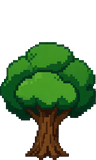
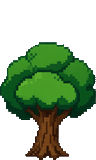
editor v0.5: inspect tool + pan + lamp erase fix + sprite noise cleanup
- 新增 📍 检视工具：单击格子弹出行列气泡，提供「下侧增加行/右侧增加列」按钮（所指格之后插入）；拖动仅平移视角保缩放
- 修复橡皮擦无法清除路灯：新增 removeLampAt，大小路灯均可擦除
- 重新清洗 19 张物件贴图：按外框 alpha 判定背景模式，半透明/不透明灰蒙层用饱和度 flood-fill 抠除并清空透明区 RGB，消除灰白噪点
- 更新 CHANGELOG/README 至 v0.5

diff --git a/static/lixin/play/tile-editor/index.html b/static/lixin/play/tile-editor/index.html
@@ -83,7 +83,7 @@
   <div class="wrap"><canvas id="cv"></canvas></div>
   <div class="side" id="side"></div>
 </div>
-<div class="legend">左键：按当前工具绘制；按住拖拽 = 连续/矩形；建筑放置时会询问名称。草地笔刷可选多种写实草色（春/夏/深林/枯黄/苔地/花甸/浅草），v0.3 新增碎石/岩石/泥土/泥泞/草皮/土路等写实地表贴图与树/石/栅栏/木桶等可放置物件。右侧列表可逐项删除。橡皮擦先擦地形覆盖/物件，再删除所指最上层结构。滚轮缩放，拖动空白处可平移。</div>
+<div class="legend">左键：按当前工具绘制；按住拖拽 = 连续/矩形。📍 检视：单击格子显示其行/列，格子旁可「下侧增加行 / 右侧增加列」，按住拖动则平移地图视角（缩放不变）。草地笔刷可选多种写实草色（春/夏/深林/枯黄/苔地/花甸/浅草），v0.3 新增碎石/岩石/泥土/泥泞/草皮/土路等写实地表贴图与树/石/栅栏/木桶等可放置物件。右侧列表可逐项删除。橡皮擦可直接擦除地形覆盖/物件/路灯（大灯小灯均可），再删所指最上层结构。滚轮缩放。</div>
 
 <script>
 /* ============ 基础常量 ============ */
@@ -246,6 +246,7 @@ const TOOLS=[
   {t:'building',name:'🏢 建筑矩形', sw:'#8a8a92'},
   {t:'lamp',   name:'💡 路灯', sw:'#ffe28a'},
   {t:'object', name:'🌲 物件', sw:'#6ba832'},
+  {t:'pick',   name:'📍 检视', sw:'#7fe0e0'},
   {t:'erase',  name:'🧽 橡皮擦', sw:'#cccccc'}
 ];
 
@@ -265,6 +266,8 @@ const statusEl=document.getElementById('status');
 const toastEl=document.getElementById('toast');
 const zoomLabel=document.getElementById('zoomLabel');
 const dimLabel=document.getElementById('dimLabel');
+const wrap=document.querySelector('.wrap');
+let panning=false, dragging=false, panStart=null, picked=null, cellBubble=null;
 
 /* ---------- 工具条 ---------- */
 TOOLS.forEach(tl=>{
@@ -272,7 +275,7 @@ TOOLS.forEach(tl=>{
   d.className='tool'+(tl.t===tool?' active':'');
   d.dataset.t=tl.t;
   d.innerHTML='<span class="sw" style="background:'+tl.sw+'"></span>'+tl.name;
-  d.onclick=()=>{ tool=tl.t; [...toolsEl.children].forEach(c=>c.classList.toggle('active',c.dataset.t===tool)); renderSubbar(); statusEl.textContent='已选：'+tl.name; };
+  d.onclick=()=>{ tool=tl.t; hideCellBubble(); [...toolsEl.children].forEach(c=>c.classList.toggle('active',c.dataset.t===tool)); renderSubbar(); statusEl.textContent='已选：'+tl.name; };
   toolsEl.appendChild(d);
 });
 
@@ -329,8 +332,11 @@ function renderSubbar(){
     });
     const tip=document.createElement('span'); tip.className='lbl'; tip.textContent='（单击放置，可拖拽连续放置）';
     subbarEl.appendChild(tip);
+  } else if(tool==='pick'){
+    const tip=document.createElement('span'); tip.className='lbl'; tip.textContent='（单击格子显示其行列，格子旁可“下侧增加行 / 右侧增加列”；按住拖动 = 平移地图视角，缩放不变）';
+    subbarEl.appendChild(tip);
   } else if(tool==='erase'){
-    const tip=document.createElement('span'); tip.className='lbl'; tip.textContent='（先擦地形覆盖/物件，再删所指最上层结构）';
+    const tip=document.createElement('span'); tip.className='lbl'; tip.textContent='（可直接擦除地形覆盖/物件/路灯，再删所指最上层结构）';
     subbarEl.appendChild(tip);
   }
 }
@@ -526,6 +532,13 @@ function findTopStructure(x,y){
 let painting=false;
 cv.addEventListener('pointerdown',e=>{
   const c=cellFromEvent(e); if(!c) return;
+  if(tool==='pick'){
+    panning=true; dragging=false;
+    panStart={x:e.clientX,y:e.clientY,sl:wrap.scrollLeft,st:wrap.scrollTop};
+    hideCellBubble();
+    cv.setPointerCapture(e.pointerId);
+    return;
+  }
   if(tool==='brush'||tool==='object'||tool==='erase'){ painting=true; paintCell(c); }
   else if(tool==='lamp'){ placeLamp(c); }
   else { anchor=c; painting=true; }
@@ -533,11 +546,23 @@ cv.addEventListener('pointerdown',e=>{
 });
 cv.addEventListener('pointermove',e=>{
   const c=cellFromEvent(e); hover=c;
+  if(tool==='pick'&&panning){
+    const dx=e.clientX-panStart.x, dy=e.clientY-panStart.y;
+    if(Math.abs(dx)>3||Math.abs(dy)>3) dragging=true;
+    wrap.scrollLeft=panStart.sl-dx; wrap.scrollTop=panStart.st-dy;
+    return;
+  }
   if(painting&&(tool==='brush'||tool==='object'||tool==='erase')) paintCell(c);
   else if(painting&&anchor&&tool!=='lamp') preview=normRect(anchor,c);
   draw();
 });
 cv.addEventListener('pointerup',e=>{
+  if(tool==='pick'&&panning){
+    panning=false;
+    if(!dragging){ const c=cellFromEvent(e); if(c) pickCell(c); }
+    cv.releasePointerCapture(e.pointerId);
+    return;
+  }
   const c=cellFromEvent(e);
   if(painting&&anchor&&tool!=='brush'&&tool!=='object'&&tool!=='erase'&&tool!=='lamp'){
     const r=normRect(anchor,c); if(r.w>0&&r.h>0) commitRect(r);
@@ -553,8 +578,10 @@ function normRect(a,b){
 function paintCell(c){
   const k=c.x+','+c.y;
   if(tool==='erase'){
-    if(state.overrides&&state.overrides[k]){ delete state.overrides[k]; }
-    else{ const hit=findTopStructure(c.x,c.y); if(hit){ if(hit.layer==='overrides') delete state.overrides[hit.idx]; else removeAt(hit.layer,hit.idx); toast('已删除 '+((LAYER_META[hit.layer]&&LAYER_META[hit.layer].name)||'物件')+'：'+hit.label); return; } }
+    if(state.lamps&&removeLampAt(c.x,c.y)) return;
+    if(state.overrides&&state.overrides[k]){ delete state.overrides[k]; draw(); scheduleSave(); renderList(); return; }
+    const hit=findTopStructure(c.x,c.y);
+    if(hit){ if(hit.layer==='overrides') delete state.overrides[hit.idx]; else removeAt(hit.layer,hit.idx); toast('已删除 '+((LAYER_META[hit.layer]&&LAYER_META[hit.layer].name)||'物件')+'：'+hit.label); return; }
     draw(); scheduleSave(); renderList(); return;
   }
   state.overrides=state.overrides||{};
@@ -567,6 +594,41 @@ function paintCell(c){
     state.overrides[k]={t:brushType};
   }
   draw(); scheduleSave(); renderList();
+}
+/* ---------- 路灯删除 + 检视气泡 ---------- */
+function removeLampAt(x,y){
+  if(!state.lamps||!state.lamps.length) return false;
+  const i=state.lamps.findIndex(l=>l.x===x&&l.y===y);
+  if(i<0) return false;
+  state.lamps.splice(i,1); scheduleSave(); draw(); renderList();
+  toast('已删除路灯 ('+x+','+y+')'); return true;
+}
+function hideCellBubble(){ if(cellBubble) cellBubble.style.display='none'; picked=null; }
+function ensureCellBubble(){
+  if(cellBubble) return cellBubble;
+  cellBubble=document.createElement('div');
+  cellBubble.id='cellBubble';
+  cellBubble.style.cssText='position:fixed;z-index:9999;display:none;background:#1f1f24;border:2px solid #f3d27a;border-radius:10px;padding:10px 12px;box-shadow:0 8px 24px rgba(0,0,0,.45);color:#eee;font-size:13px;min-width:160px;';
+  cellBubble.innerHTML='<div id="cbInfo" style="margin-bottom:8px;font-weight:bold;color:#f3d27a;"></div>'
+    +'<div style="display:flex;gap:8px;flex-wrap:wrap;">'
+    +'<button id="cbAddRow" class="btn mini">下侧增加行</button>'
+    +'<button id="cbAddCol" class="btn mini">右侧增加列</button>'
+    +'</div>';
+  document.body.appendChild(cellBubble);
+  cellBubble.querySelector('#cbAddRow').onclick=()=>{ if(picked){ insertRows(1,picked.y); hideCellBubble(); } };
+  cellBubble.querySelector('#cbAddCol').onclick=()=>{ if(picked){ insertCols(1,picked.x); hideCellBubble(); } };
+  return cellBubble;
+}
+function pickCell(c){
+  picked={x:c.x,y:c.y};
+  const b=ensureCellBubble();
+  b.querySelector('#cbInfo').textContent='第 '+(c.y+1)+' 行 / 第 '+(c.x+1)+' 列';
+  const r=cv.getBoundingClientRect();
+  let x=r.left+(c.x+1)*SCALE+6, y=r.top+c.y*SCALE;
+  if(x+190>window.innerWidth) x=r.left+(c.x)*SCALE-196;
+  if(y+96>window.innerHeight) y=window.innerHeight-100;
+  b.style.left=Math.max(4,x)+'px'; b.style.top=Math.max(4,y)+'px';
+  b.style.display='block';
 }
 function placeLamp(c){
   state.lamps=state.lamps||[];

diff --git a/static/lixin/play/assets/obj/clean_obj.py b/static/lixin/play/assets/obj/clean_obj.py
@@ -1,0 +1,74 @@
+import numpy as np
+from PIL import Image
+import glob, os, shutil
+
+HERE=os.path.dirname(os.path.abspath(__file__))
+BAK="/tmp/obj_originals"
+os.makedirs(BAK, exist_ok=True)
+
+def neighbors(y,x,h,w):
+    for dy,dx in ((1,0),(-1,0),(0,1),(0,-1)):
+        ny,nx=y+dy,x+dx
+        if 0<=ny<h and 0<=nx<w: yield ny,nx
+
+def restore(f):
+    src=os.path.join(BAK,f)
+    if os.path.exists(src): shutil.copy(src, f)
+
+for f in sorted(glob.glob("*.png")):
+    restore(f)
+    im=Image.open(f).convert("RGBA")
+    a=np.array(im); h,w,_=a.shape
+    px=a.reshape(h,w,4).copy()
+    alpha=px[:,:,3].astype(int)
+    rgb=px[:,:,:3].astype(float)
+    corners=[px[0,0],px[0,-1],px[-1,0],px[-1,-1]]
+    ccol=np.array([c[:3] for c in corners],float)
+    bg=ccol.mean(0)
+    fr=[px[y,x,3] for y in range(h) for x in range(w) if (x<3 or y<3 or x>=w-3 or y>=h-3)]
+    frame_a=np.median(fr)
+    mx=rgb.max(-1); mn=rgb.min(-1); sat=(mx-mn)
+    d=np.sqrt(((rgb-bg)**2).sum(-1))
+
+    transparent_mode = frame_a < 30
+    if transparent_mode:
+        # 已透明：仅清半透明灰边（不吃不透明暗色主体）
+        isbg=(alpha<25)|((alpha<140)&(sat<45))
+    else:
+        # 半透明/不透明灰蒙层：低饱和灰 = 背景；彩色主体（高饱和）保留
+        isbg=sat<45
+
+    mark=np.zeros((h,w),bool); stack=[]
+    for x in range(w):
+        for yy in (0,h-1):
+            if isbg[yy,x] and not mark[yy,x]: stack.append((yy,x))
+    for y in range(h):
+        for xx in (0,w-1):
+            if isbg[y,xx] and not mark[y,xx]: stack.append((y,xx))
+    while stack:
+        y,x=stack.pop()
+        if mark[y,x]: continue
+        mark[y,x]=True
+        for ny,nx in neighbors(y,x,h,w):
+            if not mark[ny,nx] and isbg[ny,nx]: stack.append((ny,nx))
+    alpha[mark]=0
+
+    if not transparent_mode:
+        rem=isbg&(alpha>0)
+        visited=np.zeros((h,w),bool)
+        for y in range(h):
+            for x in range(w):
+                if rem[y,x] and not visited[y,x]:
+                    comp=[]; st=[(y,x)]; visited[y,x]=True
+                    while st:
+                        cy,cx=st.pop(); comp.append((cy,cx))
+                        for ny,nx in neighbors(cy,cx,h,w):
+                            if rem[ny,nx] and not visited[ny,nx]:
+                                visited[ny,nx]=True; st.append((ny,nx))
+                    if len(comp)<25:
+                        for cy,cx in comp: alpha[cy,cx]=0
+
+    px[:,:,3]=alpha.astype(np.uint8)
+    px[alpha==0,:3]=0
+    Image.fromarray(px,'RGBA').save(f)
+    print(f"{f:16s} mode={'transparent' if transparent_mode else 'gray-veil'} frame_a={frame_a:.0f} removed={int(mark.sum())} final_opaque={(alpha>0).mean():.2f}")

diff --git a/static/lixin/play/tile-editor/CHANGELOG.md b/static/lixin/play/tile-editor/CHANGELOG.md
@@ -4,6 +4,17 @@
 
 ---
 
+## v0.5
+
+- 新增「📍 检视」工具：
+  - 单击格子弹出气泡，显示该格「第 N 行 / 第 M 列」；
+  - 气泡内提供「下侧增加行」「右侧增加列」按钮，点击即在所指格子【之后】插入一行/一列（复用 insertRows/insertCols，下方内容自动平移）；
+  - 在该工具下按住拖动 = 平移地图视角，**保留原缩放大小只移动视口**（通过滚动容器实现），不再误绘。
+- 修复橡皮擦不能清除路灯的 bug：`findTopStructure` 原本不含 `lamps` 层导致大小路灯无法删除；现新增 `removeLampAt`，橡皮擦优先删所指格的路灯（大灯/小灯均可），再删地形覆盖与最上层结构。
+- 去除贴图背景灰白噪点：对 `assets/obj/*.png` 重新后处理——用外框 alpha 判定背景模式，对半透明/不透明灰蒙层按**饱和度**（低饱和灰 = 背景，高饱和彩色 = 主体）做从边缘 flood-fill 抠除，并清空透明区 RGB，避免灰底在游戏中挡住其它贴图。白/浅色主体走「已透明」分支不受影响。
+
+---
+
 ## v0.4
 
 - 修复插入行/列逻辑：改为在指定位置【之后】插入，严格大于该位置的结构/覆盖才整体平移，不再是末端追加。

diff --git a/static/lixin/play/tile-editor/README.md b/static/lixin/play/tile-editor/README.md
@@ -1,6 +1,6 @@
 # Lixin 地图编辑器
 
-> 编辑器版本：**v0.4**（与 RPG 游戏主版本独立维护）
+> 编辑器版本：**v0.5**（与 RPG 游戏主版本独立维护）
 
 为立信校园 RPG 提供的可视化地图编辑器。前端单页 + 零依赖 Node 后端，保存结果写入 `../map-data.json`，游戏刷新后自动加载。
 
@@ -29,7 +29,8 @@ node server.js
 | 🏢 建筑矩形 | 拖拽生成建筑，松开后可输入名称 |
 | 💡 路灯 | 单击放置路灯，可选大灯 |
 | 🌲 物件 | 单击放置树木/花草/装饰；树木占多格（如 3×5、2×6），花草单格小巧，均使用透明像素风贴图 |
-| 🧽 橡皮擦 | 先擦除逐格覆盖/物件，再删除所指最上层结构；点击多格物件任意占地格即可删除整株 |
+| 📍 检视 | 单击格子弹出气泡显示其「第 N 行 / 第 M 列」，并提供「下侧增加行」「右侧增加列」按钮（在所指格子之后插入）；按住拖动 = 仅平移地图视角，缩放不变 |
+| 🧽 橡皮擦 | 可直接擦除逐格覆盖/物件/**路灯（大灯小灯均可）**，再删除所指最上层结构；点击多格物件任意占地格即可删除整株 |
 
 **视图**：
 - 滚轮 / 顶部按钮缩放，支持“适应窗口”。
